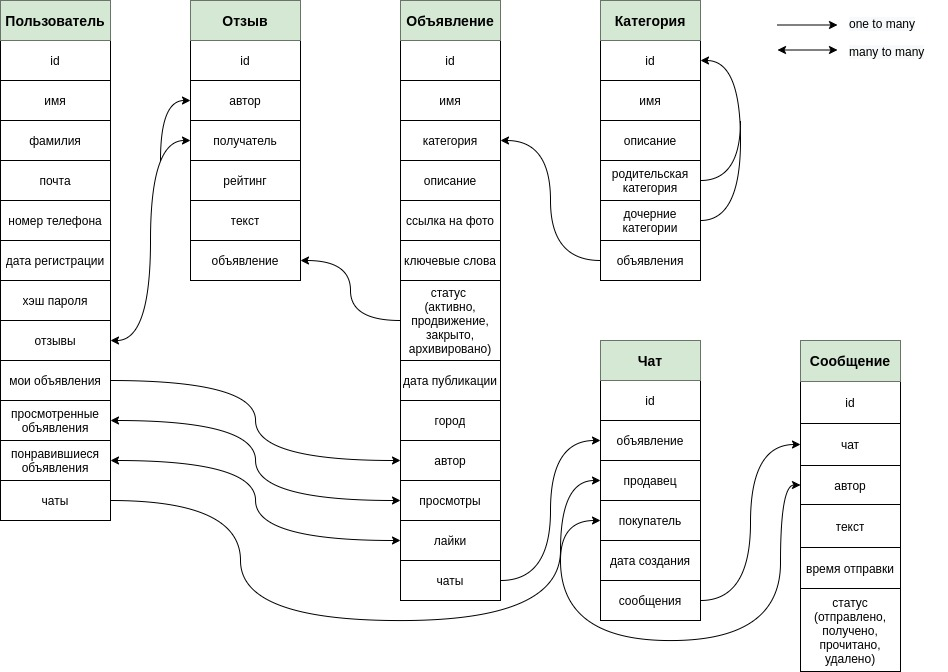
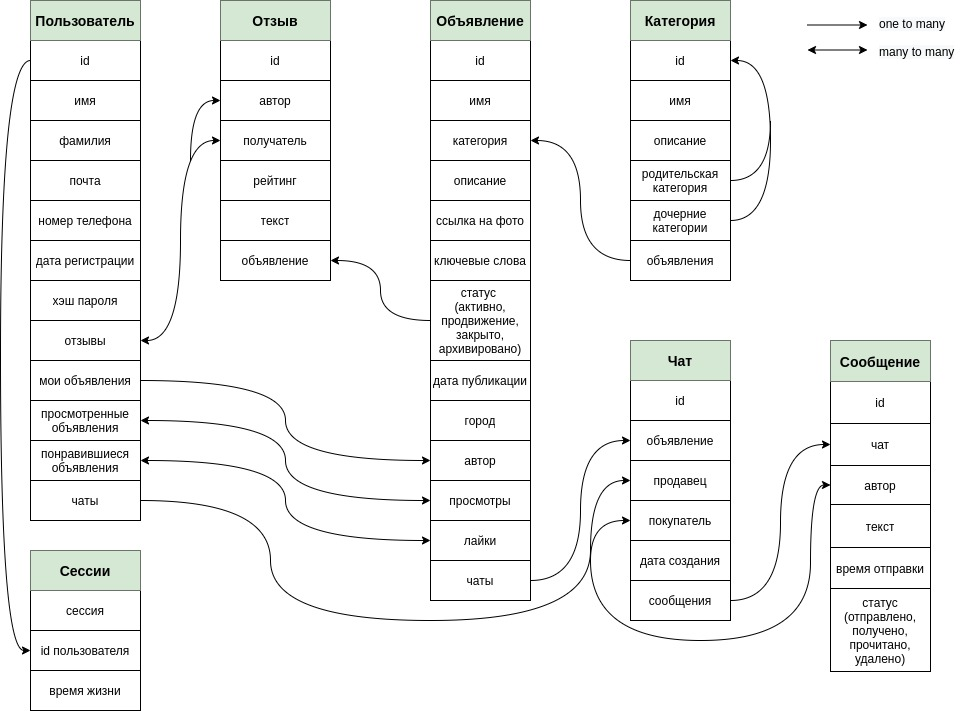
fix after rewiev

diff --git a/README.md b/README.md
@@ -38,7 +38,8 @@ homework №2 at the course of the technopark highload
 
 Активные сессии пользователя будем хранить в redis. Redis отличается от существующих решений тем, что
 API для работы с Memcached (MemcacheDB) позволяет хранить массивы, но эти массивы будут сериализованы и сохранены как строки, таким образом атомарные операции над такими массивами не возможны.
-Redis позволяет хранить как строки, так и массивы, к которым можно применять атомарные операции pop / push, делать выборки из таких массивов, выполнять сортировку элементов, получать объединения и пересечения массивов, что придет большую гибкость нашему приложению.
+Redis позволяет хранить как строки, так и массивы, к которым можно применять атомарные операции pop / push, делать выборки из таких массивов, 
+выполнять сортировку элементов, получать объединения и пересечения массивов, что придет большую гибкость нашему приложению при работе с множественными пользовательскими сессиями.
 
 Высокая скорость работы Redis обеспечивается тем, что данные хранятся в оперативной памяти и сохраняются на диск либо через равные промежутки времени, 
 либо при превышении определённого количества не сохранённых запросов. 
@@ -49,9 +50,8 @@ Redis по скорости сравнимо с обращением к опер
 Данные о пользователе и активных объявлениях имеют для нас наибольший приоритет, потому что без них наше приложение потеряет ключевой функционал.
 Для хранения этих данных я выбрал PostgreSQL, потому что по сравнению с другими реалиционными аналогами она имеет наиболее обширный функционал, эффективную репликацию и достаточно удобную поддержку.
 
-Для повышения отказоустойчивости нашего приложения будем хранить пользователей, объявления и прочую информацию на разных шардах, что сделает компоненты нашей системы независимыми и выход из стоя одной компоненты не приведет к полной деградации всего сервиса.
-
-Для хранение изображений воспользуемся услугами облачного провайдера Amazon. Это решение является лучшим на рынке и по данным с официального сайта обеспечивает надежность 11 девяток. 
+Для хранение изображений воспользуемся услугами облачного провайдера Amazon S3. Это решение является лучшим на рынке, так как оно рассчитано под хранение террабайтов данных, при этом имея высокую скорость и надежность. Чтобы оптимизировать работу с фотографиями будем хранить изображения пользователей и каждой категории объявлений в разных бакетах. 
+Локацию фотографии для похода в нужный бакет для отдачи клиенту будем определять по урлу. 
 
 ### 6. Выбор прочих технологий
 
@@ -70,7 +70,8 @@ Frontend - HTML, CSS, TypeScript. Для  TypeScript будем использо
 
 ##### Обеспечение качества
 
-Как на фронтенде, так и на бэкенде будут использованы статические и динамические анализаторы кода, интеграционные и юнит тесты. Их запуск будет автоматизирован в Gitlab CI при открытии merge request в master.
+Как на фронтенде, так и на бэкенде будут использованы статические и динамические анализаторы кода, интеграционные и юнит тесты. 
+Их запуск будет автоматизирован в Gitlab CI при открытии merge request в master.
 
 ##### Релиз процесс
 
@@ -85,7 +86,8 @@ Frontend - HTML, CSS, TypeScript. Для  TypeScript будем использо
 ##### Активные сессии
 
 Данный компонент архитектуры особо важен по той причине, что валидация cookie пользователей осуществляется на каждый запрос.
-В среднем одна запись об активных сессиях может занимать до 30 байт. Количество запросов к ней можно сопоставить с общим rps на весь проект (20 тыс). Умножим это на 120 млн. активных пользователей получим итоговый объем занимаемых данных - 3.6 млрд. байт.
+В среднем одна запись об активных сессиях может занимать до 30 байт. Количество запросов к ней можно сопоставить с общим rps на весь проект (макс. 40 тыс). 
+Умножим это на 120 млн. активных пользователей получим итоговый объем занимаемых данных - 7.2 млрд. байт.
 
 ##### Пользователи
 
@@ -93,42 +95,95 @@ Frontend - HTML, CSS, TypeScript. Для  TypeScript будем использо
 
 ##### Объявления
 
-Запись с одним объявлением может занимать до 900 байт. Исходя из этого общий объем занимаемого места примерно равен 650 млрд. байт.
+Запись с одним объявлением может занимать до 900 байт. С учетом того, что у каждого пользователя может быть до 5 открытых объявлений получим, 
+что максимальное количество объявлений может составить 600 млн. и тогда общий объем занимаемого места будет примерно равен 540 млрд. байт.
 
 ##### Фото
 
-В среднем одна фотография весит около 500 кб. 
-Если считать что у каждого пользователя есть аватарка, и каждому объявлению приложено в среднем 5 фото, то получим 360 трлн. байт.
-
+Если задать максимальный размер фотографии 500 кб. и под каждым объявлением разрешать размещать не более 10 фото 
+(в расчетах считаем, что под каждым объявлением 10 фото), 
+с учетом того, что у каждого пользователя есть аватарка и RPS на фото соизмерим с RPS на объявления, то получим 6.2 млрд. фотографий, что займет 360 трлн. байт.
+ 
 ##### Прочее
 
 Сообщения, загрузка чатов и отзывы являются наименее редкими операциями в нашем веб-приложении, 
-потому что большинство пользователей предпочитают связываться с покупателем по номеру телефона. Объем памяти на их хранение можно оценить примерно в 15 млрд. байт.
+потому что большинство пользователей предпочитают связываться с покупателем по номеру телефона. 
+Объем памяти на их хранение можно оценить примерно в 15 млрд. байт.
+
+##### Микросервисы
+
+Выделим основные микросервисы:
+1. авторизация, регистрация, пользовательские данные
+2. объявления
+3. чаты
+
+С учетом максимального размера данных, которые проходят через каждый из сервисов, 
+и учитывая прочие накладные и алгоритмические расходы нам потребуется 146 гб., 830 гб., 70 гб. 
+для первого, второго и третьего сервиса соответственно.
 
 ##### Расчет потребного оборудования
 
-Исходя из приведенных выше данных нам потребуется 362 тб. для хранения всей нужной информации. При закупке тазов со следующими характеристиками:
+Исходя из приведенных выше данных нам потребуется 380 тб для полной функциональности нашего проекта, большую часть из которых (360 тб) занимают фото.
+Поскольку мы будем хранить фото в амазоне мы можем не думать о закупке железа под них, а лишь выбрать нужный нам тариф. Для наших нужд нам хорошо подойдет S3 Standard.
+Базы данных будут развернуты на голом железе. В то время как все остальные сервисы в k8s кластере. 
+В таблице представлена конфигурация машин для каждого из узлов приложения с учетом реплицирования и ежегодного прироста данных.
 
-| CPU  (cores)  |      RAM (gb)    |  SSD (gb) |
-|:----------:|:-------------:|:------:|
-| 32 |  64 | 4096 |
-
-с учетом 30% ежегодного прироста пользователей, нам потребуется 95 тачек под хранилища, 15 под микросервисы на бэкенде и 4 для фронтенда.
+| Узел | CPU (cores) | RAM (gb) | Количество |
+|:------:|:------:|:------:|:------:|
+| Авторизация | 32 | 64 | 4 |
+| Объявления | 64 | 128 | 10 |
+| Чат | 32 | 64 | 3 |
+| БД | 64 | 128 | 160 |
+| Фротенд | 32 | 64 | 3 |
 
 ### 8. Выбор хостинга / облачного провайдера и расположения серверов
 
 При покупке облачных серверов нет необходимости в аппаратной поддержке и найме сис. админов поэтому я решил смотреть в сторону облачных решений 
-и в качестве провайдера выбрал MCS, потому что он обеспечивает весь нужный функционал:
+и в качестве провайдера выбрал MCS, потому что он предоставляет лучшие тарифы по метрике цена-качество по сравнению с конкурентами и обеспечивает весь нужный функционал:
  * поддержка kubernetes из коробки
  * быстрая миграция без остановки приложения
  * удобное масштабирование
  * оперативная тех. поддержка
+ 
+Поскольку наша аудитория в первую очередь это Россия, то наши сервера будут раскиданы внутри страны по разным дата центам MRG (Москва, Санкт-Петербург, Удомля, Нижний Новгород, Новосибирск)
 
 ### 9. Схема балансировки нагрузки (входящего трафика и внутрипроектного, терминация SSL)
 
-Будем использовать nginx для балансировки нагрузки с использованием схемы L7. Это позволит равномерно распределить нагрузку и решит проблемы медленных клиентов. Также nginx имеет внутренние инструменты для настройки SSL терминации.
+Будем использовать nginx для балансировки нагрузки с использованием схемы L7. 
+Это позволит равномерно распределить нагрузку и решит проблемы медленных клиентов. 
+Также nginx имеет внутренние инструменты для настройки SSL терминации. 
+Nginx будет развернут и k8s, что обеспечит надежность при выходе из строя
+и позволит динамически докидывать подов в случае сверхвысокой нагрузки на приложение. 
+
+В k8s кластере при развертывании новой фермы на неё вешается отдельный vip, который также позволяет осуществлять балансировку по подам на уровне dns. 
 
 ### 10. Обеспечение отказоустойчивости
 
-Поскольку запросов на чтение в нашем сервисе приходит в разы больше чем, на изменение, то для обеспечения отказоустойчивости баз данных будет резонно поднять для каждого мастера по два слейва. 
-Отказоустойчивость наших сервисов обеспечивается за счет развертки в k8s, так как внутри него можно настроить автоматическую балансировка нагрузки с помощью постоянного мониторинга сведений о производительности и использовании ресурсов и соответствующее распределение работающих приложений по всему виртуальному кластеру.  
+В нашей схеме есть четыре потенциальных узла, отказ которых приведет к полной или частичной деградации приложения:
+
+* базы данных
+* балансировщики 
+* фронтенд
+* микросервисы на бэкенде
+
+Так как базы данных будут работать на железе и запросов на чтение в нашем сервисе приходит в разы больше чем, на изменение, 
+то для обеспечения их отказоустойчивости будет резонно поднять для каждого мастера по два слейва на разных машинах в разных дата центрах, 
+что повысит надежность данного компонента.
+ 
+Отказоустойчивость всех наших микросервисов сервисов на бэкенде, балансировщиков и фронтенда обеспечивается за счет их развертки в k8s, 
+так как внутри него можно настроить: автоматическую балансировка нагрузки с помощью постоянного мониторинга сведений о производительности и использовании ресурсов; 
+грамотное размещение подов внутри кластера по дата центрам (правило affinity);
+при падении любого пода по какой-либо причине запросы равномерно сбалансируются по оставшимся живым подам, до тех пор, пока k8s их не переподнимет.
+
+Сам k8s кластер, на надежности которого держится большая часть системы будет грамотно развернут на многих машинах, размещенных в разных дата центрах находящихся в разных городах.
+
+Для обеспечения надежного хранения данных в amazon s3, во-первых, как писалось выше, 
+мы будем хранить различные фотографии в разных бакетах амазона, во-вторых, заведем отдельный резервный аккаунт. 
+Также отдельно стоит отметить, что в выбранный нами тариф обслуживания (S3 Standard) входит пункт с договоренностью о предоставляемом SLA к нашим ресурсам. 
+
+По-мимо всего прочего грамотно настроенные аллерты (на состояние машин, k8s кластера, всех ключевых микросервисов и бизнес процессов), подробная документация, CI/CD, 
+всевозможные виды тестов (unit, интергационные, E2E, нагрузочные) 
+и суточные дежурства внутри каждой из команд помогут вовремя среагировать на всевозможные экстраординарные ситуации.
+
+Исходя из приведенных выше рассуждений можно сделать вывод, что падение какого-то одного узла, пода, машины 
+или даже дата центра не приведет к полной деградации нашего проекта.
